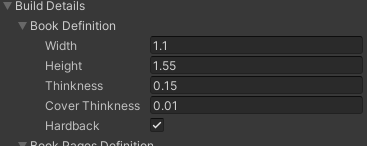
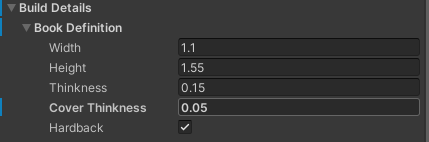
Update Book Effect.

diff --git a/DemoSite/Index.html b/DemoSite/Index.html
@@ -21,7 +21,7 @@
 </ul>
 </div>
 </nav>
-<Body><!--05/01/2024--><section id='hero' class='d-flex align-items-center'><div class='container' data-aos='zoom-out' data-aos-delay='100'><h1>Welcome to <span>Electric Wolf</spa></h1><h2>Electric wolf excels at creating user friendly tools with Unity3D </h2><div class='d-flex'><a href='#services' class='btn-get-started scrollto'>Take a look</a></div></div></section><section id='services' class='services'><div class='container'><div class='section-title'>  <h2>Unity3D Tools</h2>  <h3>Check our <span><a href='Unity/Index.html'></i>Unity3D projects</a></span></h3>  <p>All packages are available on the Assert store.</p></div><div class='row'><div class='col-lg-4 col-md-6' ><div class='card border-light'><img src='Unity\SciFiModularRooms\images\ModularRoomsAd.PNG' class='img-fluid' alt=''><h4><a href='Unity\SciFiModularRooms\SciFiModularRooms.html'>Sci-Fi Modular Rooms</a></h4><p>Sci-Fi Modular Rooms, Lets you easily create Sci-Fi scenes using prefab rooms and corridors, with a helpful selection and snapping system.</p></div></div><div class='col-lg-4 col-md-6' ><div class='card border-light'><img src='Unity\RoadBuilder\images\Unity3d_Road_Builder_Basic_road.gif' class='img-fluid' alt=''><h4><a href='Unity\RoadBuilder\RoadBuilder.html'>Road Builder</a></h4><p>Road Builder Lets you create non-linear roads easily by using a network of nodes. With easy to use buttons to extrude, join, insert nodes and create mesh. Building new roads has never been so easy.</p></div></div><div class='col-lg-4 col-md-6' ><div class='card border-light'><img src='Unity\BookEffect\images\BookEffect.png' class='img-fluid' alt=''><h4><a href='Unity\BookEffect\BookEffect.html'>Book Effect</a></h4><p>Updated (2024) Book Effect, Lets you add a book with turning pages into any unity game. </br>Just add the prefab book object and then add all of your textures in the Inspector. Add now you can set the size and shape of the book.</p></div></div><div class='col-lg-4 col-md-6' ><div class='card border-light'><img src='Unity\PipeBuilder\images\PipeBuilderAd.png' class='img-fluid' alt=''><h4><a href='Unity\PipeBuilder\PipeBuilder.html'>Pipe Builder</a></h4><p>Pipe Builder lets you quickly add pipes into any scene. You can define how many sides you wish to have on the pipes and you can also refine exactly where the pipe are in the scene. All with in Unity3D no need to swap back to a 3D editor. Pipe builder is ideal for placing pipes around other objects, with tools like Insert/ Delete and Extract, it makes it easy to add, remove modify later.</p></div></div><div class='col-lg-4 col-md-6' ><div class='card border-light'><img src='Unity\BookEffect\images\BookEffect.png' class='img-fluid' alt=''><h4><a href='Unity\BookEffect\BookEffectV2.html'>Book Effect</a></h4><p>Lets you add a book with turning pages into any unity game. </br>Just add the prefab book object and then add all of your textures in the Inspector. Just add the prefab.</p></div></div><div class='col-lg-4 col-md-6' ><div class='card border-light'><img src='Unity\FenceWallAndHedgeBuilder\images\FenceWallAndHedgeBuilder.gif' class='img-fluid' alt=''><h4><a href='Unity\FenceWallAndHedgeBuilder\FenceWallAndHedgeBuilder.html'>Fence, Wall and Hedge Builder</a></h4><p>Fence Wall And Hedge Builder Lets you quickly place walls in your game, using a user-friendly UI from within the scene editor or the inspector, Select from a list defined wall types and then select the style of that type</p></div></div><div class='col-lg-4 col-md-6' ><div class='card border-light'><img src='Unity\SciFiObjectsPack1\images\SciFiObjectsPack1Ad.png' class='img-fluid' alt=''><h4><a href='Unity\SciFiObjectsPack1\SciFiObjectsIndex.html'>Sci-Fi Objects Pack 1</a></h4><p>Collection of game ready objects you can just use in any sci-fi style game <br/>Shelves are placed into the map empty, Then by clicking on the <strong>Fill All Shelves</strong> Button will populate all the shelves.</br>The prefab <strong>ObjectsOnFloor_pf</strong> will let you place lots of random objects on the floor quickly.</p></div></div><div class='col-lg-4 col-md-6' ><div class='card border-light'><img src='Unity\SciFiObjectsPack2\images\SciFiObjectsPack2Ad.png' class='img-fluid' alt=''><h4><a href='Unity\SciFiObjectsPack2\SciFiObjects2Index.html'>Sci-Fi Objects Pack 2</a></h4><p>Collection of game ready objects you can just use in any sci-fi style game.</br><strong>Contains:</strong> Cargo, Debris, Desks, Equipment, Living Quarters, Bed, Chairs, Lockers, Scenery, Screens, etc.</p></div></div><div class='col-lg-4 col-md-6' ><div class='card border-light'><img src='Unity\TrafficAndRoadsideObjects\images\TrafficObjectsAd.png' class='img-fluid' alt=''><h4><a href='Unity\TrafficAndRoadsideObjects\TrafficRoadSideObjects.html'>Traffic and Roadside objects</a></h4><p>A Collection of 42 traffic and roadside objects prefabs, Ideal for any city.</br><strong>Contains:</strong> Traffic Barriers, Road Barriers, Traffic Cones, Traffic lights (Animated), Crossing lights (Animated), Benches, Bins</p></div></div><div class='col-lg-4 col-md-6' ><div class='card border-light'><img src='Unity\GardenFlowers\images\GardenFlowers.png' class='img-fluid' alt=''><h4><a href='Unity\GardenFlowers\GardenFlowers.html'>Garden Flowers</a></h4><p>A collection of low poly garden flowers for Unity3D. Flowers have individual prefabs and also a collection of Flower Beds prefabs with pre-arranged groups of flowers for easy placement</p></div></div><div class='col-lg-4 col-md-6' ><div class='card border-light'><img src='Unity\DynamicVDUs\images\DynamicVDU_Logo.png' class='img-fluid' alt=''><h4><a href='Unity\DynamicVDUs\DynamicVDUs.html'>Animated Dynamic VDU</a></h4><p>Dynamic VDU is a collection of animated dynamic monitors, That will show a range of alertness form no alert - all is green to full alert - were most is red</p></div></div><div class='col-lg-4 col-md-6' ><div class='card border-light'><img src='Unity\BuildingBuilder\images\Builder_Creating_your_first_Buildin.gif' class='img-fluid' alt=''><h4><a href='Unity\BuildingBuilder\BuildingBuilder.html'>Building Builder</a></h4><p>Building Builder lets you create a variety of Low-poly buildings from a defined list of settings. Each building is created by a collection of options that can easily be changed or set to use a random set of values</p></div></div><div class='col-lg-4 col-md-6' ><div class='card border-light'><img src='Unity\SkyboxesVariety\images\SkyboxesA.png' class='img-fluid' alt=''><h4><a href='Unity\SkyboxesVariety\SkyboxesVariety.html'>Skyboxes Variety</a></h4><p>Section of 10 Variety skyboxes, High quality panoramic scenes that can be used in your game.All textures (6 of them) are 1024 by 1024 resolution.</p></div></div><div class='col-lg-4 col-md-6' ><div class='card border-light'><img src='Unity\SkyboxesSkies\images\SkyboxesB.png' class='img-fluid' alt=''><h4><a href='Unity\SkyboxesSkies\SkyboxesSkies.html'>Skyboxes Skies</a></h4><p>Section of 10 Variety skies skyboxes, High quality panoramic scenes that can be used in your game.All textures (6 of them) are 1024 by 1024 resolution.</p></div></div><div class='col-lg-4 col-md-6' ><div class='card border-light'><img src='Unity\SkyboxesNebulas\images\SkyboxesC.png' class='img-fluid' alt=''><h4><a href='Unity\SkyboxesNebulas\SkyboxesNebulas.html'>Skyboxes Nebulas</a></h4><p>Section of 5 Variety skyboxes all Space Nebulas, High quality panoramic scenes that can be used in your game.All textures (6 of them) are 1024 by 1024 resolution.</p></div></div></div></div></section><script>
+<Body><!--06/01/2024--><section id='hero' class='d-flex align-items-center'><div class='container' data-aos='zoom-out' data-aos-delay='100'><h1>Welcome to <span>Electric Wolf</spa></h1><h2>Electric wolf excels at creating user friendly tools with Unity3D </h2><div class='d-flex'><a href='#services' class='btn-get-started scrollto'>Take a look</a></div></div></section><section id='services' class='services'><div class='container'><div class='section-title'>  <h2>Unity3D Tools</h2>  <h3>Check our <span><a href='Unity/Index.html'></i>Unity3D projects</a></span></h3>  <p>All packages are available on the Assert store.</p></div><div class='row'><div class='col-lg-4 col-md-6' ><div class='card border-light'><img src='Unity\SciFiModularRooms\images\ModularRoomsAd.PNG' class='img-fluid' alt=''><h4><a href='Unity\SciFiModularRooms\SciFiModularRooms.html'>Sci-Fi Modular Rooms</a></h4><p>Sci-Fi Modular Rooms, Lets you easily create Sci-Fi scenes using prefab rooms and corridors, with a helpful selection and snapping system.</p></div></div><div class='col-lg-4 col-md-6' ><div class='card border-light'><img src='Unity\RoadBuilder\images\Unity3d_Road_Builder_Basic_road.gif' class='img-fluid' alt=''><h4><a href='Unity\RoadBuilder\RoadBuilder.html'>Road Builder</a></h4><p>Road Builder Lets you create non-linear roads easily by using a network of nodes. With easy to use buttons to extrude, join, insert nodes and create mesh. Building new roads has never been so easy.</p></div></div><div class='col-lg-4 col-md-6' ><div class='card border-light'><img src='Unity\BookEffect\images\BookEffect.png' class='img-fluid' alt=''><h4><a href='Unity\BookEffect\BookEffect.html'>Book Effect</a></h4><p>Updated (2024) Book Effect, Lets you add a book with turning pages into any unity game. </br>Just add the prefab book object and then add all of your textures in the Inspector. Add now you can set the size and shape of the book.</p></div></div><div class='col-lg-4 col-md-6' ><div class='card border-light'><img src='Unity\PipeBuilder\images\PipeBuilderAd.png' class='img-fluid' alt=''><h4><a href='Unity\PipeBuilder\PipeBuilder.html'>Pipe Builder</a></h4><p>Pipe Builder lets you quickly add pipes into any scene. You can define how many sides you wish to have on the pipes and you can also refine exactly where the pipe are in the scene. All with in Unity3D no need to swap back to a 3D editor. Pipe builder is ideal for placing pipes around other objects, with tools like Insert/ Delete and Extract, it makes it easy to add, remove modify later.</p></div></div><div class='col-lg-4 col-md-6' ><div class='card border-light'><img src='Unity\BookEffect\images\BookEffect.png' class='img-fluid' alt=''><h4><a href='Unity\BookEffect\BookEffectV2.html'>Book Effect</a></h4><p>Lets you add a book with turning pages into any unity game. </br>Just add the prefab book object and then add all of your textures in the Inspector. Just add the prefab.</p></div></div><div class='col-lg-4 col-md-6' ><div class='card border-light'><img src='Unity\FenceWallAndHedgeBuilder\images\FenceWallAndHedgeBuilder.gif' class='img-fluid' alt=''><h4><a href='Unity\FenceWallAndHedgeBuilder\FenceWallAndHedgeBuilder.html'>Fence, Wall and Hedge Builder</a></h4><p>Fence Wall And Hedge Builder Lets you quickly place walls in your game, using a user-friendly UI from within the scene editor or the inspector, Select from a list defined wall types and then select the style of that type</p></div></div><div class='col-lg-4 col-md-6' ><div class='card border-light'><img src='Unity\SciFiObjectsPack1\images\SciFiObjectsPack1Ad.png' class='img-fluid' alt=''><h4><a href='Unity\SciFiObjectsPack1\SciFiObjectsIndex.html'>Sci-Fi Objects Pack 1</a></h4><p>Collection of game ready objects you can just use in any sci-fi style game <br/>Shelves are placed into the map empty, Then by clicking on the <strong>Fill All Shelves</strong> Button will populate all the shelves.</br>The prefab <strong>ObjectsOnFloor_pf</strong> will let you place lots of random objects on the floor quickly.</p></div></div><div class='col-lg-4 col-md-6' ><div class='card border-light'><img src='Unity\SciFiObjectsPack2\images\SciFiObjectsPack2Ad.png' class='img-fluid' alt=''><h4><a href='Unity\SciFiObjectsPack2\SciFiObjects2Index.html'>Sci-Fi Objects Pack 2</a></h4><p>Collection of game ready objects you can just use in any sci-fi style game.</br><strong>Contains:</strong> Cargo, Debris, Desks, Equipment, Living Quarters, Bed, Chairs, Lockers, Scenery, Screens, etc.</p></div></div><div class='col-lg-4 col-md-6' ><div class='card border-light'><img src='Unity\TrafficAndRoadsideObjects\images\TrafficObjectsAd.png' class='img-fluid' alt=''><h4><a href='Unity\TrafficAndRoadsideObjects\TrafficRoadSideObjects.html'>Traffic and Roadside objects</a></h4><p>A Collection of 42 traffic and roadside objects prefabs, Ideal for any city.</br><strong>Contains:</strong> Traffic Barriers, Road Barriers, Traffic Cones, Traffic lights (Animated), Crossing lights (Animated), Benches, Bins</p></div></div><div class='col-lg-4 col-md-6' ><div class='card border-light'><img src='Unity\GardenFlowers\images\GardenFlowers.png' class='img-fluid' alt=''><h4><a href='Unity\GardenFlowers\GardenFlowers.html'>Garden Flowers</a></h4><p>A collection of low poly garden flowers for Unity3D. Flowers have individual prefabs and also a collection of Flower Beds prefabs with pre-arranged groups of flowers for easy placement</p></div></div><div class='col-lg-4 col-md-6' ><div class='card border-light'><img src='Unity\DynamicVDUs\images\DynamicVDU_Logo.png' class='img-fluid' alt=''><h4><a href='Unity\DynamicVDUs\DynamicVDUs.html'>Animated Dynamic VDU</a></h4><p>Dynamic VDU is a collection of animated dynamic monitors, That will show a range of alertness form no alert - all is green to full alert - were most is red</p></div></div><div class='col-lg-4 col-md-6' ><div class='card border-light'><img src='Unity\BuildingBuilder\images\Builder_Creating_your_first_Buildin.gif' class='img-fluid' alt=''><h4><a href='Unity\BuildingBuilder\BuildingBuilder.html'>Building Builder</a></h4><p>Building Builder lets you create a variety of Low-poly buildings from a defined list of settings. Each building is created by a collection of options that can easily be changed or set to use a random set of values</p></div></div><div class='col-lg-4 col-md-6' ><div class='card border-light'><img src='Unity\SkyboxesVariety\images\SkyboxesA.png' class='img-fluid' alt=''><h4><a href='Unity\SkyboxesVariety\SkyboxesVariety.html'>Skyboxes Variety</a></h4><p>Section of 10 Variety skyboxes, High quality panoramic scenes that can be used in your game.All textures (6 of them) are 1024 by 1024 resolution.</p></div></div><div class='col-lg-4 col-md-6' ><div class='card border-light'><img src='Unity\SkyboxesSkies\images\SkyboxesB.png' class='img-fluid' alt=''><h4><a href='Unity\SkyboxesSkies\SkyboxesSkies.html'>Skyboxes Skies</a></h4><p>Section of 10 Variety skies skyboxes, High quality panoramic scenes that can be used in your game.All textures (6 of them) are 1024 by 1024 resolution.</p></div></div><div class='col-lg-4 col-md-6' ><div class='card border-light'><img src='Unity\SkyboxesNebulas\images\SkyboxesC.png' class='img-fluid' alt=''><h4><a href='Unity\SkyboxesNebulas\SkyboxesNebulas.html'>Skyboxes Nebulas</a></h4><p>Section of 5 Variety skyboxes all Space Nebulas, High quality panoramic scenes that can be used in your game.All textures (6 of them) are 1024 by 1024 resolution.</p></div></div></div></div></section><script>
 window.onscroll = function() {myFunction()};
 
 var header = document.getElementById(myHeader);

diff --git a/DemoSite/Unity/BookEffect/BookEffect.html b/DemoSite/Unity/BookEffect/BookEffect.html
@@ -21,7 +21,7 @@
 </ul>
 </div>
 </nav>
-<Body><!--05/01/2024--><div class='container mt-12'><div class='jumbotron'>
+<Body><!--06/01/2024--><div class='container mt-12'><div class='jumbotron'>
 <div class='row'>
 <div class='col-md-12'>
 <h1>Book Effect</h1>
@@ -29,13 +29,13 @@
 </div>
 </div>
 </div>
-<div class='row'><div class='col-md-12'><div class="d-flex flex-sm-row flex-column justify-content-between"><div class="border-end bg-white col-md-2" id="sidebar-wrapper"><div class="sticky-top"><div class="list-group list-group-flush"><a class="list-group-item list-group-item-action list-group-item-light p-2" href="#Download">Download</a><a class="list-group-item list-group-item-action list-group-item-light p-2" href="#OlderVersion">OlderVersion</a><a class="list-group-item list-group-item-action list-group-item-light p-2" href="#ExampleBook">Example Book</a><a class="list-group-item list-group-item-action list-group-item-light p-2" href="#Overview">Overview</a><a class="list-group-item list-group-item-action list-group-item-light p-2" href="#HowtousefromCode">How to use from Code</a><a class="list-group-item list-group-item-action list-group-item-light p-2" href="#CodeControlOptions">Code Control Options</a></div></div></div><div id="page-content-wrapper col-md-8"><a id='Download'></a>
+<div class='row'><div class='col-md-12'><div class="d-flex flex-sm-row flex-column justify-content-between"><div class="border-end bg-white col-md-2" id="sidebar-wrapper"><div class="sticky-top"><div class="list-group list-group-flush"><a class="list-group-item list-group-item-action list-group-item-light p-2" href="#Download">Download</a><a class="list-group-item list-group-item-action list-group-item-light p-2" href="#OlderVersion">OlderVersion</a><a class="list-group-item list-group-item-action list-group-item-light p-2" href="#ExampleBook">Example Book</a><a class="list-group-item list-group-item-action list-group-item-light p-2" href="#Overview">Overview</a><a class="list-group-item list-group-item-action list-group-item-light p-2" href="#Definethebookcover">Define the book cover</a><a class="list-group-item list-group-item-action list-group-item-light p-2" href="#HowtousefromCode">How to use from Code</a><a class="list-group-item list-group-item-action list-group-item-light p-2" href="#CodeControlOptions">Code Control Options</a><a class="list-group-item list-group-item-action list-group-item-light p-2" href="#Support">Support</a></div></div></div><div id="page-content-wrapper col-md-8"><a id='Download'></a>
 <div class ='row bg-light'>
 <div class='col-md-12'>
 <div class='section-title'>
 <div class='text-left'><h2>Download</h2>
 </div>
-<div class='text-center'></br>Available at the <a href='https://assetstore.unity.com/packages/tools/particles-effects/book-effect-27538' target='Blank' >Unity Asset Store</a></br></br></div></div>
+<div class='text-center'></br>Available at the <a href='https://assetstore.unity.com/packages/tools/particles-effects/book-effect-27538' target='Blank' >Unity Asset Store</a></br></br>Version 3 will be released Feburay 2024.</div></div>
 </div>
 </div>
 <br />
@@ -45,7 +45,7 @@
 <div class='section-title'>
 <div class='text-left'><h2>OlderVersion</h2>
 </div>
-<div class='text-center'></br>If you need to check the older version Documation you can  <a href='BookEffectV2.html'>found Here</a></br></br></div></div>
+<div class='text-center'></br>Version 3 will be released Feburay 2024. Until then please use Version 2</br>If you need to check the older version Documation you can  <a href='BookEffectV2.html'>found Here</a></br></br></div></div>
 </div>
 </div>
 <br />
@@ -55,7 +55,7 @@
 <div class='section-title'>
 <div class='text-left'><h2>Example Book</h2>
 </div>
-<div class='text-center'></br>After inporting</br></br>Take a look at the two example scenes in the folder <strong>Assets\eWolf\BookEffectV3\Scene</strong></br></br></br></br>To add a book to a scene follow the steps</br></br>Create a new empty scene</br>Drag in the book Prefab </br><strong>Assets\eWolf\BookEffectV3\Prefabs\Book_Builder_pf.prefab</strong></br>Then select the book in the scene, and in the inspector click on the <strong>Build Book</strong> Button</br></br>And the book will appear with all it's default material and pages</br>The Overview section has all the details on what all the options are</br></br>To test the book in a running game,</br></br>Drag in the book controller Prefab </br><strong>Assets\eWolf\BookEffectV2\Prefabs\BookHudControl_pf.prefab</strong></br></br>Select the BookHudControl_pf</br></br>And then drag the Book_Builder_pf game object in to the Book Object field</br>So it looks like the below.</br><img src='images/V3/BookControl.PNG' width=65%px ></br></br>Now when you run the game, you will see the button to open and close the book, and also turn the pages.</div></div>
+<div class='text-center'></br>After inporting</br></br>Take a look at the two example scenes in the folder <strong>Assets\eWolf\BookEffectV3\Scene</strong></br></br></br></br>To add a book to a scene follow the steps</br></br>Create a new empty scene</br>Drag in the book Prefab </br><strong>Assets\eWolf\BookEffectV3\Prefabs\Book_Builder_pf.prefab</strong></br>Then select the book in the scene, and in the inspector click on the <strong>Build Book</strong> Button</br></br>And the book will appear with all it's default material and pages</br>The Overview section (below) has all the details on what all the options are</br></br>To test the book in a running game,</br></br>Drag in the book controller Prefab </br><strong>Assets\eWolf\BookEffectV2\Prefabs\BookHudControl_pf.prefab</strong></br></br>Select the BookHudControl_pf</br></br>And then drag the Book_Builder_pf game object in to the Book Object field</br>So it looks like the below.</br><img src='images/V3/BookControl.PNG' width=45%px ></br></br>Now when you run the game, you will see the button to open and close the book, and also turn the pages.</div></div>
 </div>
 </div>
 <br />
@@ -65,7 +65,17 @@
 <div class='section-title'>
 <div class='text-left'><h2>Overview</h2>
 </div>
-<div class='text-center'></br>The updated Book effect package now lets you set the size of the book</br></br><div class='row'><div class='col-md-6'><div class='text-right'><img src='images/V3/InspectorBookSize.PNG' width=100%px ></div></div><div class='col-md-6'><strong>Width: </strong>The width of the book in units<br /><strong>Height: </strong>The height of the book in units<br /><strong>Thinkness: </strong>The thinkness of the book when closed<br /><strong>Cover Thinkness: </strong>The thinkness of the book cover<br /><strong>Hardback: </strong>Not used yet, for future use!<br /></br></div></div></br><div class='row'><div class='col-md-6'><div class='text-right'><img src='images/V3/InspectorBookPageDetails.PNG' width=100%px ></div></div><div class='col-md-6'><strong>Edge Gap: </strong>Gap between the pages and the edge of the book<br /><strong>Page Turn Style: </strong>How the page looks when it turns<br /></br></div></div><div class='row'><div class='col-md-6'><div class='text-right'><img src='images/V3/InspectorBookMaterials.PNG' width=100%px ></div></div><div class='col-md-6'><strong>Cover Inner: </strong>Inside cover material<br /><strong>Cover Outter: </strong>The book outside material<br /><strong>Inside Back Page: </strong>Inside page right side<br /><strong>Inside Front Page: </strong>Inside page left side<br /><strong>Pages: </strong>Edge of the book. (pages)<br /></br></div></div></br><div class='row'><div class='col-md-6'><div class='text-right'><img src='images/V3/InspectorBookPages.PNG' width=100%px ></div></div><div class='col-md-6'><strong>Pages: </strong>Allow you to add as many textures as needed.<br /></br></div></div></br><div class='row'><div class='col-md-6'><div class='text-right'><img src='images/V3/InspectorBookOthers.PNG' width=100%px ></div></div><div class='col-md-6'><strong>Starting Page: </strong>Sets the starting page when the book opens<br /><strong>Start Speed: </strong>Set the speed of the anims<br /></br></div></div></br>When you are ready Click on the<strong> Build Book </strong>button to create the book</br><img src='images/V3/Buttons.PNG' width=65%px ></br></br>When built, you can use the <strong>Open and Close</strong> Buttons to view the book open and closed</br>Each time you change a value above you will need to rebuild the book.</br></br>We also have more options to help with defining the Book Cover, that we will take about later.</br></br></div></div>
+<div class='text-center'></br>The updated Book effect package now lets you set the size of the book</br></br><div class='row'><div class='col-md-6'><div class='text-right'><img src='images/V3/InspectorBookSize.PNG' width=100%px ></div></div><div class='col-md-6'><strong>Width: </strong>The width of the book in units<br /><strong>Height: </strong>The height of the book in units<br /><strong>Thinkness: </strong>The thinkness of the book when closed<br /><strong>Cover Thinkness: </strong>The thinkness of the book cover<br /><strong>Hardback: </strong>Not used yet, for future use!<br /></br></div></div></br><div class='row'><div class='col-md-6'><div class='text-right'><img src='images/V3/InspectorBookPageDetails.PNG' width=100%px ></div></div><div class='col-md-6'><strong>Edge Gap: </strong>Gap between the pages and the edge of the book<br /><strong>Page Turn Style: </strong>How the page looks when it turns<br /></br></div></div><div class='row'><div class='col-md-6'><div class='text-right'><img src='images/V3/InspectorBookMaterials.PNG' width=100%px ></div></div><div class='col-md-6'><strong>Cover Inner: </strong>Inside cover material<br /><strong>Cover Outter: </strong>The book outside material<br /><strong>Inside Back Page: </strong>Inside page right side<br /><strong>Inside Front Page: </strong>Inside page left side<br /><strong>Pages: </strong>Edge of the book. (pages)<br /></br></div></div></br><div class='row'><div class='col-md-6'><div class='text-right'><img src='images/V3/InspectorBookPages.PNG' width=100%px ></div></div><div class='col-md-6'><strong>Pages: </strong>Allow you to add as many textures as needed.<br /></br></div></div></br><div class='row'><div class='col-md-6'><div class='text-right'><img src='images/V3/InspectorBookOthers.PNG' width=100%px ></div></div><div class='col-md-6'><strong>Starting Page: </strong>Sets the starting page when the book opens<br /><strong>Start Speed: </strong>Set the speed of the animation<br /></br></div></div></br>When you are ready Click on the<strong> Build Book </strong>button to create the book</br><img src='images/V3/Buttons.PNG' width=65%px ></br></br>When built, you can use the <strong>Open and Close</strong> Buttons to view the book open and closed</br>Each time you change a value above you will need to rebuild the book.</br></br>We also have more options to help with defining the Book Cover, that we will take about later.</br></br></div></div>
+</div>
+</div>
+<br />
+<a id='Definethebookcover'></a>
+<div class ='row bg-light'>
+<div class='col-md-12'>
+<div class='section-title'>
+<div class='text-left'><h2>Define the book cover</h2>
+</div>
+<div class='text-center'>As we can now set the thinkness of the book cover</br>We also need to be able to change how much UV are used for the edge.</br></br><img src='images/V3/BookEdge.PNG' width=45%px ></br></br>This can be done my the Book Cover UV Size Options<img src='images/V3/InspectorBookUV.PNG' width=45%px ></br></br><strong>UV Cover Width: </strong>The % of texture to use from the front cover<br /><strong>UV Cover Border X: </strong>The % of the texture to use for the Edge (left and right)<br /><strong>UV Cover Border Y: </strong>The % of the texture to use for the Edge (top and bottom)<br /></div></div>
 </div>
 </div>
 <br />
@@ -86,6 +96,16 @@
 <div class='text-left'><h2>Code Control Options</h2>
 </div>
 <div class='text-center'>With access to the IBookControl</br></br>You have access to </br></br></div><div class='text-left'>Can we turn the back backwards<div class='col-md-12'><div class='text-left'><div class="p-3 mb-2 bg-secondary text-white">bool CanTurnPageBackWard  { get; }</br></div></div></div></br></br>Can we turn the back forward (normal direction)<div class='col-md-12'><div class='text-left'><div class="p-3 mb-2 bg-secondary text-white">bool CanTurnPageForward  { get; }</br></div></div></div></br></br>Get the book details<div class='col-md-12'><div class='text-left'><div class="p-3 mb-2 bg-secondary text-white">IDetails GetDetails { get; }</br></div></div></div></br></br>Is the book currently open<div class='col-md-12'><div class='text-left'><div class="p-3 mb-2 bg-secondary text-white">bool IsBookOpen { get; }</br></div></div></div></br></br>Close the Book<div class='col-md-12'><div class='text-left'><div class="p-3 mb-2 bg-secondary text-white">void CloseBook();</br></div></div></div></br></br>Open the Book<div class='col-md-12'><div class='text-left'><div class="p-3 mb-2 bg-secondary text-white">void OpenBook();</br></div></div></div></br></br>Open the book at a set page<div class='col-md-12'><div class='text-left'><div class="p-3 mb-2 bg-secondary text-white">void OpenBookAtPage(int pageIndex);</br></div></div></div></br></br>Set the animation speed for the book<div class='col-md-12'><div class='text-left'><div class="p-3 mb-2 bg-secondary text-white">void SetSpeed(float speed);</br></div></div></div></br></br>Trun the page forward (normal)<div class='col-md-12'><div class='text-left'><div class="p-3 mb-2 bg-secondary text-white">void TurnPage();</br></div></div></div></br></br>Turn the page backwards<div class='col-md-12'><div class='text-left'><div class="p-3 mb-2 bg-secondary text-white">void TurnPageBack();</br></div></div></div></div></div>
+</div>
+</div>
+<br />
+<a id='Support'></a>
+<div class ='row bg-light'>
+<div class='col-md-12'>
+<div class='section-title'>
+<div class='text-left'><h2>Support</h2>
+</div>
+</br>If you need any more help please email us at <strong>Contact@electricWolf.co.uk</strong></br></br></div>
 </div>
 </div>
 <br />

diff --git a/DemoSite/Unity/PipeBuilder/PipeBuilder.html b/DemoSite/Unity/PipeBuilder/PipeBuilder.html
@@ -21,7 +21,7 @@
 </ul>
 </div>
 </nav>
-<Body><!--05/01/2024--><div class='container mt-12'><div class='jumbotron'>
+<Body><!--06/01/2024--><div class='container mt-12'><div class='jumbotron'>
 <div class='row'>
 <div class='col-md-12'>
 <img class='rounded mx-auto d-block' src='images/PipeBuilderLogo.png' width=35%px ><p class='lead'>Pipe Builder lets you quickly add pipes into any scene. You can define how many sides you wish to have on the pipes and you can also refine exactly where the pipes are in the scene. All within Unity3D no need to swap back to a 3D editor.</p>

diff --git a/DemoSite/Unity/RoadBuilder/RoadBuilder.html b/DemoSite/Unity/RoadBuilder/RoadBuilder.html
@@ -21,7 +21,7 @@
 </ul>
 </div>
 </nav>
-<Body><!--05/01/2024--><div class='container mt-12'><div class='jumbotron'>
+<Body><!--06/01/2024--><div class='container mt-12'><div class='jumbotron'>
 <div class='row'>
 <div class='col-md-12'>
 <img class='rounded mx-auto d-block' src='images/RoadBuilderLogo.png' width=35%px ><p class='lead'>Road Builder Lets you create non-linear roads easily by using a network of nodes. With easy to use buttons to extrude, join, insert nodes and create mesh. Building new roads has never been so easy.</p>

diff --git a/DemoSite/Unity/RoadBuilder/RoadBuilderCurves.html b/DemoSite/Unity/RoadBuilder/RoadBuilderCurves.html
@@ -21,7 +21,7 @@
 </ul>
 </div>
 </nav>
-<Body><!--05/01/2024--><div class='container mt-12'><div class='jumbotron'>
+<Body><!--06/01/2024--><div class='container mt-12'><div class='jumbotron'>
 <div class='row'>
 <div class='col-md-12'>
 <img class='rounded mx-auto d-block' src='images/RoadBuilderLogo.png' width=35%px ><p class='lead'>Road Builder Lets you create non-linear roads easily by using a network of nodes. With easy to use buttons to extrude, join, insert nodes and create mesh. Building new roads has never been so easy.</p>

diff --git a/DemoSite/Unity/RoadBuilder/RoadBuilderRelease.html b/DemoSite/Unity/RoadBuilder/RoadBuilderRelease.html
@@ -21,7 +21,7 @@
 </ul>
 </div>
 </nav>
-<Body><!--05/01/2024--><div class='container mt-12'><div class='jumbotron'>
+<Body><!--06/01/2024--><div class='container mt-12'><div class='jumbotron'>
 <div class='row'>
 <div class='col-md-12'>
 <img class='rounded mx-auto d-block' src='images/RoadBuilderLogo.png' width=35%px ><p class='lead'>Road Builder Lets you create non-linear roads easily by using a network of nodes. With easy to use buttons to extrude, join, insert nodes and create mesh. Building new roads has never been so easy.</p>

diff --git a/DemoSite/Unity/RoadBuilder/RoadBuilderTerrain.html b/DemoSite/Unity/RoadBuilder/RoadBuilderTerrain.html
@@ -21,7 +21,7 @@
 </ul>
 </div>
 </nav>
-<Body><!--05/01/2024--><div class='container mt-12'><div class='jumbotron'>
+<Body><!--06/01/2024--><div class='container mt-12'><div class='jumbotron'>
 <div class='row'>
 <div class='col-md-12'>
 <img class='rounded mx-auto d-block' src='images/RoadBuilderLogo.png' width=35%px ><p class='lead'>Road Builder Lets you create non-linear roads easily by using a network of nodes. With easy to use buttons to extrude, join, insert nodes and create mesh. Building new roads has never been so easy.</p>

diff --git a/DemoSite/CodeExamples/EnhanceYourUnityEditor.html b/DemoSite/CodeExamples/EnhanceYourUnityEditor.html
@@ -21,7 +21,7 @@
 </ul>
 </div>
 </nav>
-<Body><!--05/01/2024--><div class='container mt-12'><div class='jumbotron'>
+<Body><!--06/01/2024--><div class='container mt-12'><div class='jumbotron'>
 <div class='row'>
 <div class='col-md-12'>
 <h1>Enhance your unity editor with OnDrawGizmosSelected</h1>

diff --git a/DemoSite/CodeExamples/U3DEditorPart001.html b/DemoSite/CodeExamples/U3DEditorPart001.html
@@ -21,7 +21,7 @@
 </ul>
 </div>
 </nav>
-<Body><!--05/01/2024--><div class='container mt-12'><div class='jumbotron'>
+<Body><!--06/01/2024--><div class='container mt-12'><div class='jumbotron'>
 <div class='row'>
 <div class='col-md-12'>
 <h1>Customizing the inspector for your game objects</h1>

diff --git a/DemoSite/CodeExamples/U3DEnumsAttribute.html b/DemoSite/CodeExamples/U3DEnumsAttribute.html
@@ -21,7 +21,7 @@
 </ul>
 </div>
 </nav>
-<Body><!--05/01/2024--><div class='container mt-12'><div class='jumbotron'>
+<Body><!--06/01/2024--><div class='container mt-12'><div class='jumbotron'>
 <div class='row'>
 <div class='col-md-12'>
 <h1>Attributes: Adding extra data on to Enums</h1>

diff --git a/DemoSite/CodeExamples/EnhanceYourUnityEditorHandles.html b/DemoSite/CodeExamples/EnhanceYourUnityEditorHandles.html
@@ -21,7 +21,7 @@
 </ul>
 </div>
 </nav>
-<Body><!--05/01/2024--><div class='container mt-12'><div class='jumbotron'>
+<Body><!--06/01/2024--><div class='container mt-12'><div class='jumbotron'>
 <div class='row'>
 <div class='col-md-12'>
 <h1>Enhance your unity editor with Handles</h1>

diff --git a/DemoSite/Unity/SciFiModularRooms/SciFiModularRoomsTroubleShooter.html b/DemoSite/Unity/SciFiModularRooms/SciFiModularRoomsTroubleShooter.html
@@ -21,7 +21,7 @@
 </ul>
 </div>
 </nav>
-<Body><!--05/01/2024--><div class='container mt-12'><div class='jumbotron'>
+<Body><!--06/01/2024--><div class='container mt-12'><div class='jumbotron'>
 <div class='row'>
 <div class='col-md-12'>
 <h1>Sci-Fi Modular Rooms TroubleShooter</h1>
